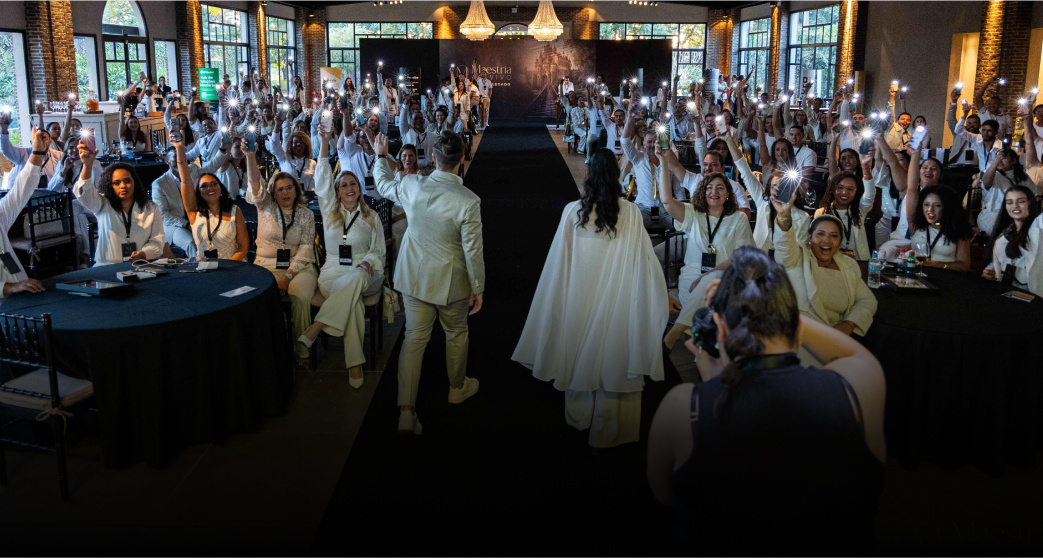
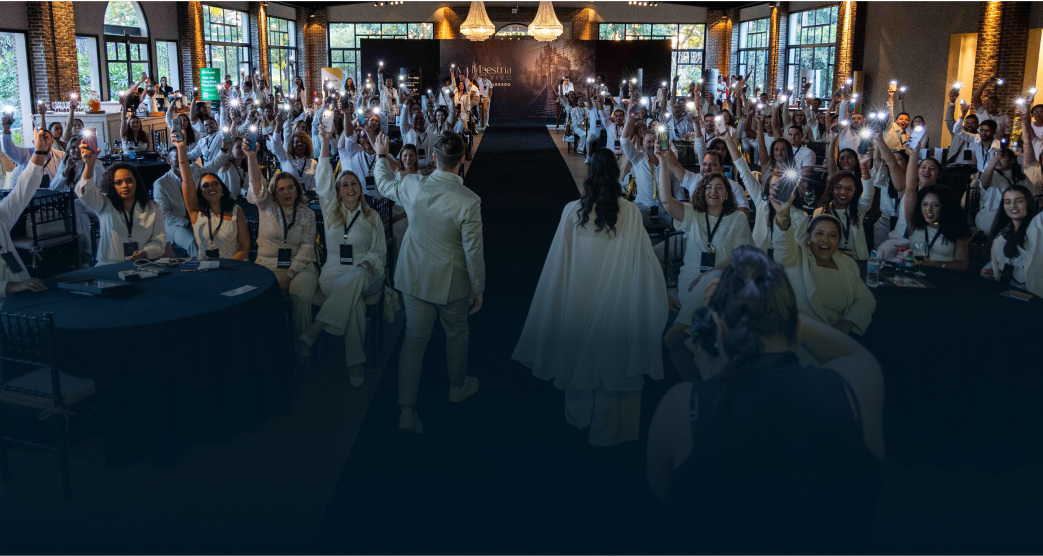
Nova abertura e base em #011522
Trocadas as duas artes da hero, desktop e celular. Elas terminam em
#011522, entao a base da pagina vai junto: --ground #011522 e
--ground-deep #000b12.

Com a pagina inteira nessa cor, o degrade da cauda deixa de existir, ele so
servia pra sair do preto da hero antiga. O veu da hero e a faixa das
listras passam a terminar na propria cor da pagina, entao a emenda some sem
transicao nenhuma. Acompanham a superficie das caixas, o quadro do
ingresso, o cabecalho, a barra do rodape e o popup.

Ponto de restauracao na branch antes-hero-011522, em d3d5b24.

Claude-Session: https://claude.ai/code/session_013jajXCUfWYegnKyb6rfXJy

diff --git a/src/styles/global.css b/src/styles/global.css
@@ -11,10 +11,11 @@
   font-display: swap;
 }
 :root {
-  /* PMS 282 C, do arquivo do cliente. É a cor da página inteira; o -deep é
-     um passo abaixo dela, pra fundo de caixa e pontas de degradê. */
-  --ground:      #041e42;
-  --ground-deep: #02132b;
+  /* Cor da página inteira, casada com o pé da arte da abertura; o -deep é um
+     passo abaixo dela, pra fundo de caixa e pontas de degradê.
+     Antes daqui: --ground #041e42 e --ground-deep #02132b (PMS 282 C). */
+  --ground:      #011522;
+  --ground-deep: #000b12;
   --navy:        #171a3b;   /* 01 - AZUL MARINHO, do arquivo do cliente */
   --navy-glow:   #0a1264;
 
@@ -229,7 +230,7 @@ section h2,
 .card {
   border: 1px solid var(--edge-lit);
   border-radius: 20px;
-  background: linear-gradient(180deg, #07295a, #031733);
+  background: linear-gradient(180deg, #052738, #01121d);
 }
 
 /* ── Painel: a superfície de conteúdo, com matéria e não filete ── */
